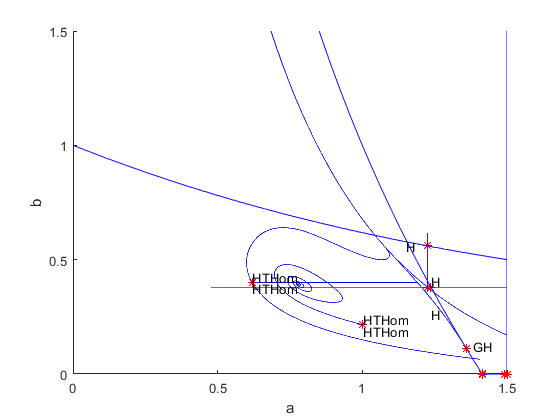
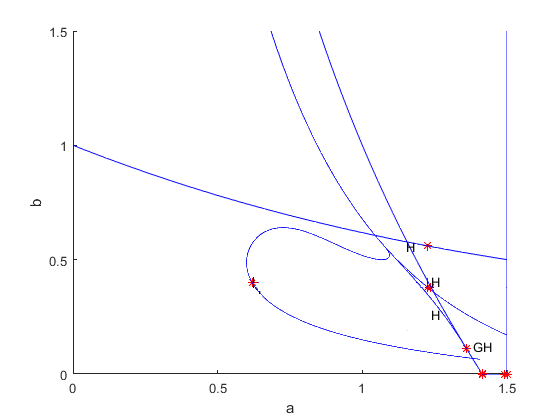
Shimitsu Morioca System

Changed region(s): [[0.425, 0.65, 0.6375, 0.7429], [0.6375, 0.7429, 0.7286, 0.8048]]

diff --git a/matlabThreads.tex b/matlabThreads.tex
@@ -87,14 +87,14 @@ $\sigma, \; r, \; b$ - положительные параметры.
 \end{figure}
 \begin{figure}[H]
 	\center{\includegraphics[scale=0.7]{LorenzLL13}}
-	\caption{Кривая бифуркации вилка}
+	\caption{Кривая бифуркации гомоклинической восьмёрки бабочки}
 \end{figure}
-Построим кривую $l_3$.
+Построим кривую $l_3$ бифуркации Андронова-Хопфа.
 \newline
 В Starter выберем момент времени $t=0$ и точку $(x,y,z) = (0.001, 0, 0)$. Параметры - $(\sigma, r, b) = (10, 2, \frac{2}{3})$ Найдём состояние равновесия и затем выберем эту точку как состояние равновесия: $\textbf{Type|Initial Point|Equilibrium}$. Протянем её по параметру $r$, пока не найдём точку Hopf. Выберем её в Initializer, выберем пункт Hopf (init\_H\_H), затем, протянув по двум параметрам $(\sigma, r)$, получим кривую $l_3$.
 \begin{figure}[H]
 	\center{\includegraphics[scale=0.8]{lorenzl2}}
-	\caption{Кривая бифуркации вилка}
+	\caption{Кривая бифуркации Андронова-Хопфа}
 \end{figure}
 Построим кривую симметричной бифуркации вилки.
 \newline
@@ -103,4 +103,49 @@ $\sigma, \; r, \; b$ - положительные параметры.
 	\center{\includegraphics[scale=0.8]{LorenzLL14}}
 	\caption{Кривая бифуркации вилка}
 \end{figure}
+
+\section{Система Шимицу-Мориока}
+Рассмотрим систему:
+\begin{equation*}
+	\begin{cases}
+		x' = y \\
+		y' = x - ay - xz \\
+		z' = -bz + x^2
+	\end{cases}
+\end{equation*}
+$a > 0$ и $b > 0$ - параметры.
+\newline
+Протянем бифуркацию Андронова-Хопфа. Для этого выберем точку в окрестности нуля и параметры $(a, b) = (1.5; 0.38)$. Находим состояние равновесия, выбираем найденную точку и протягиваем её по параметру $a$ как $equilibrium$. Находим точку $Hopf$ и протягиваем её по двум параметрам.
+\begin{figure}[H]
+	\center{\includegraphics[scale=0.8]{SMHopf}}
+	\caption{Кривая бифуркации Андронова-Хопфа}
+\end{figure}
+Построим кривую бифуркации $HB$. Выберем точку в окрестности нуля и параметры $(a, b) = (1.225; 0.38)$. Простроим кривую, выбрав параметр $interval$ равным 25. Далее выберем начальную точку как состояние равновесия: $\textbf{Type|Initial Point|Equilibrium}$, а кривую - $\textbf{Type|Curve|ConnectionSaddle}$. Нажмём $\textbf{Compute|Forward}$ и затем в Data Browser выберем HTHom Select Connection. После этого выбираем в Starter параметры (a, SParam1, eps1) и зануляем параметр SParam1. В Data Browser выбираем HTHom SParam1 equal to zero. Теперь выберем параметры (a, eps1, T) и будем занулять eps1. Выбираем в Data Browser HTHom eps1 small enough, а в initializer - Homoclinic to Saddle. Выбираем параметры (a, b, T) и начинаем строить кривую бифуркации $HB$.
+
+\begin{figure}[H]
+	\center{\includegraphics[scale=0.8]{SMHB}}
+	\caption{Кривая бифуркации HB}
+\end{figure}
+
+Найдём нейтральное седло путём выбора нулевой точки как $Equilibrium$. Протянем её по параметру $b$. Наткнёмся на точку $Neutral-Saddle$ $equilibrium$, выберем её и протянем по двум параметрам.
+
+\begin{figure}[H]
+	\center{\includegraphics[scale=0.8]{SMNS}}
+	\caption{Кривая нейтрального седла}
+\end{figure}
+
+Вытянем кривую седло-узловой бифуркации из точки $Generalized$ $Hopf$. Выберем её и выберем тип кривой $limit$ $point$ $of$ $cycles$.
+
+\begin{figure}[H]
+	\center{\includegraphics[scale=0.8]{SMSaddleNode}}
+	\caption{Кривая седло-узловой бифуркации}
+\end{figure}
+
+Выберем точку в окрестности нуля и параметры $(a, b) = (0.62, 0.4)$. Проделаем те же действия, что и с кривой $HB$.
+
+\begin{figure}[H]
+	\center{\includegraphics[scale=0.8]{ShimitsuMarioca1}}
+	\caption{Кривая HB-2}
+\end{figure}
+
 \end{document}
